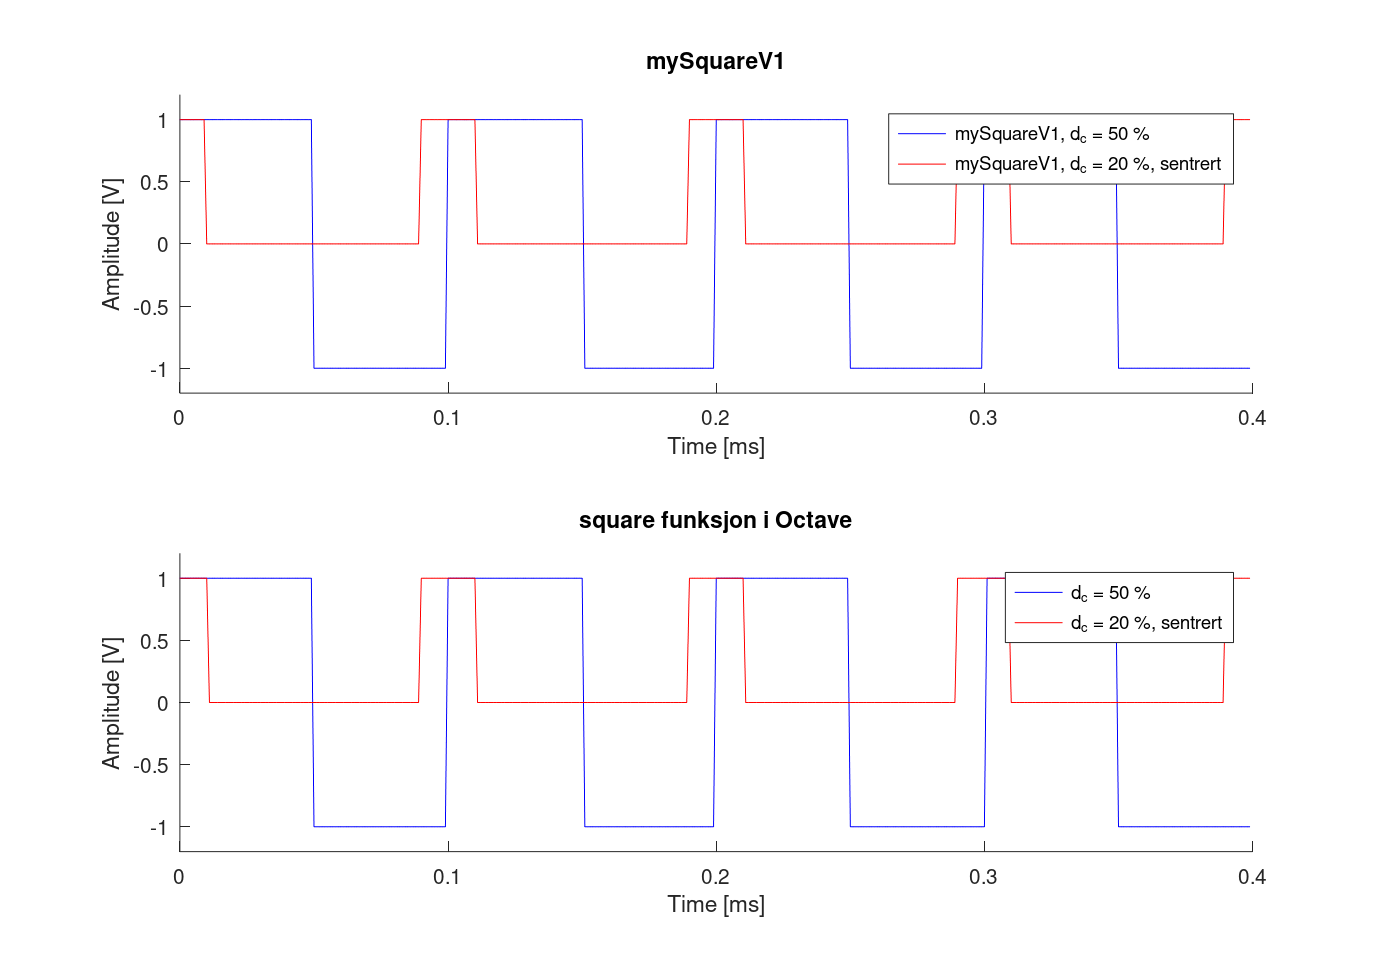
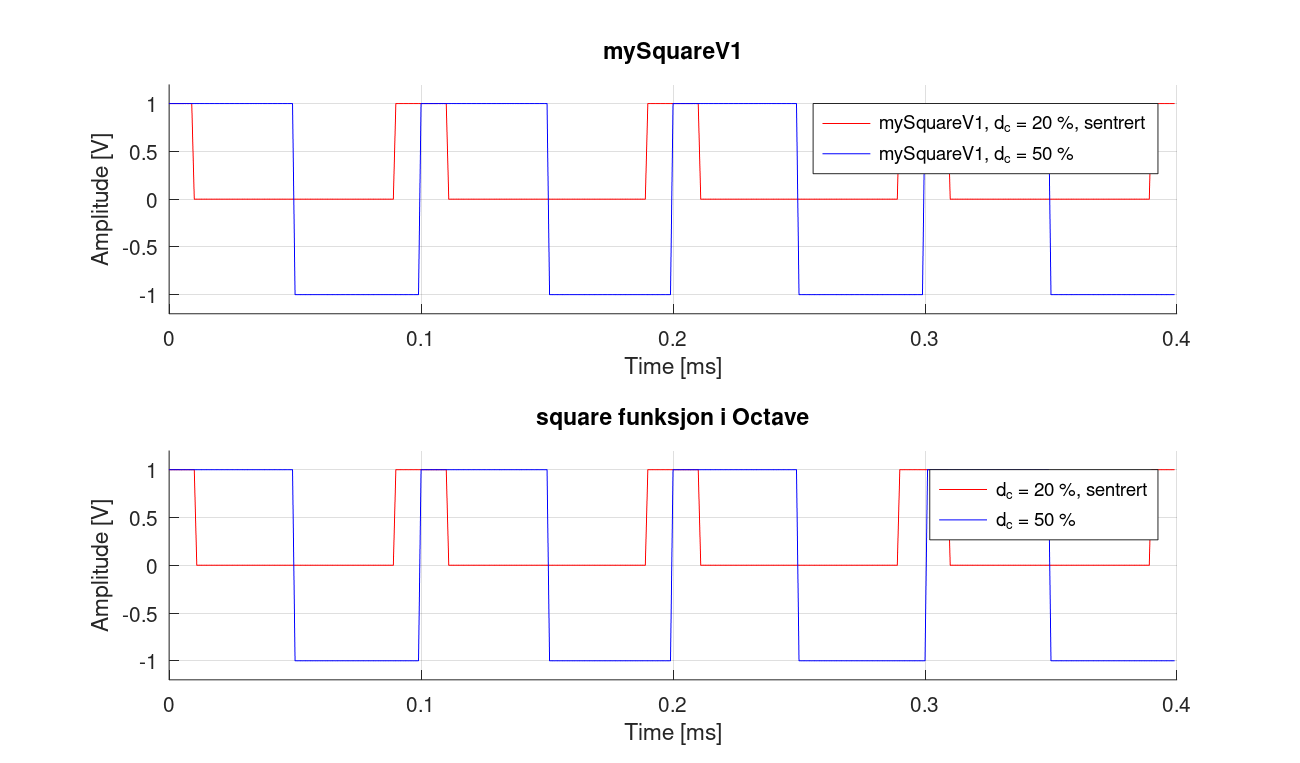
helo

diff --git a/innleveringer/A1/oppgave3/3.m b/innleveringer/A1/oppgave3/3.m
@@ -107,23 +107,25 @@ figure(1);
 subplot(2,1,1);
 hold on;
 t = t*1e3; # skaler til ms
-plot(t,out_m, "b", "DisplayName", sprintf("mySquareV1, d_c = %d %%", d_c));
 plot(t,out_m2, "r", "DisplayName", sprintf("mySquareV1, d_c = %d %%, sentrert", d_c2));
+plot(t,out_m, "b", "DisplayName", sprintf("mySquareV1, d_c = %d %%", d_c));
 ylim([-1.2, 1.2]);
 xlabel('Time [ms]');
 ylabel('Amplitude [V]');
 title(sprintf("mySquareV1"));
 legend();
+grid()
 
 subplot(2,1,2);
 hold on;
-plot(t, out, "b", "DisplayName", sprintf("d_c = %d %%", d_c));
 plot(t, out2, "r", "DisplayName", sprintf("d_c = %d %%, sentrert", d_c2));
+plot(t, out, "b", "DisplayName", sprintf("d_c = %d %%", d_c));
 ylim([-1.2, 1.2]);
 xlabel('Time [ms]');
 ylabel('Amplitude [V]');
 title(sprintf("square funksjon i Octave"));
 legend();
+grid()
 
 
 % b)
@@ -185,5 +187,6 @@ disp(t(end));
 xticks(0:0.5:t(end));
 ylim([-0.2, 1.2]);
 legend();
+grid()
 
 
